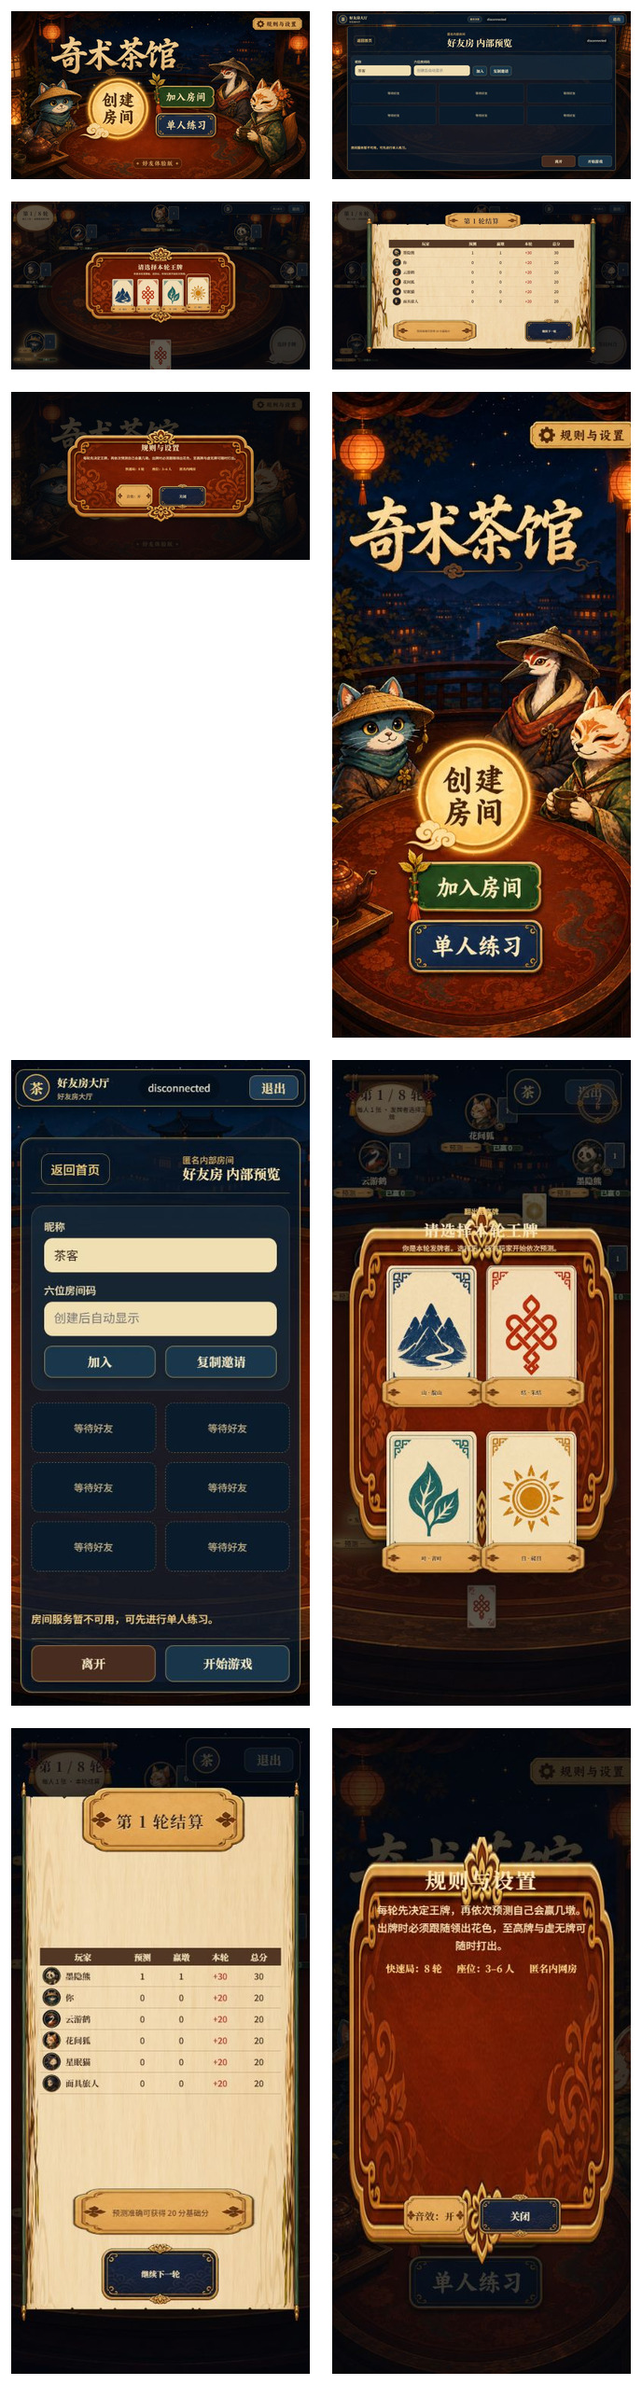
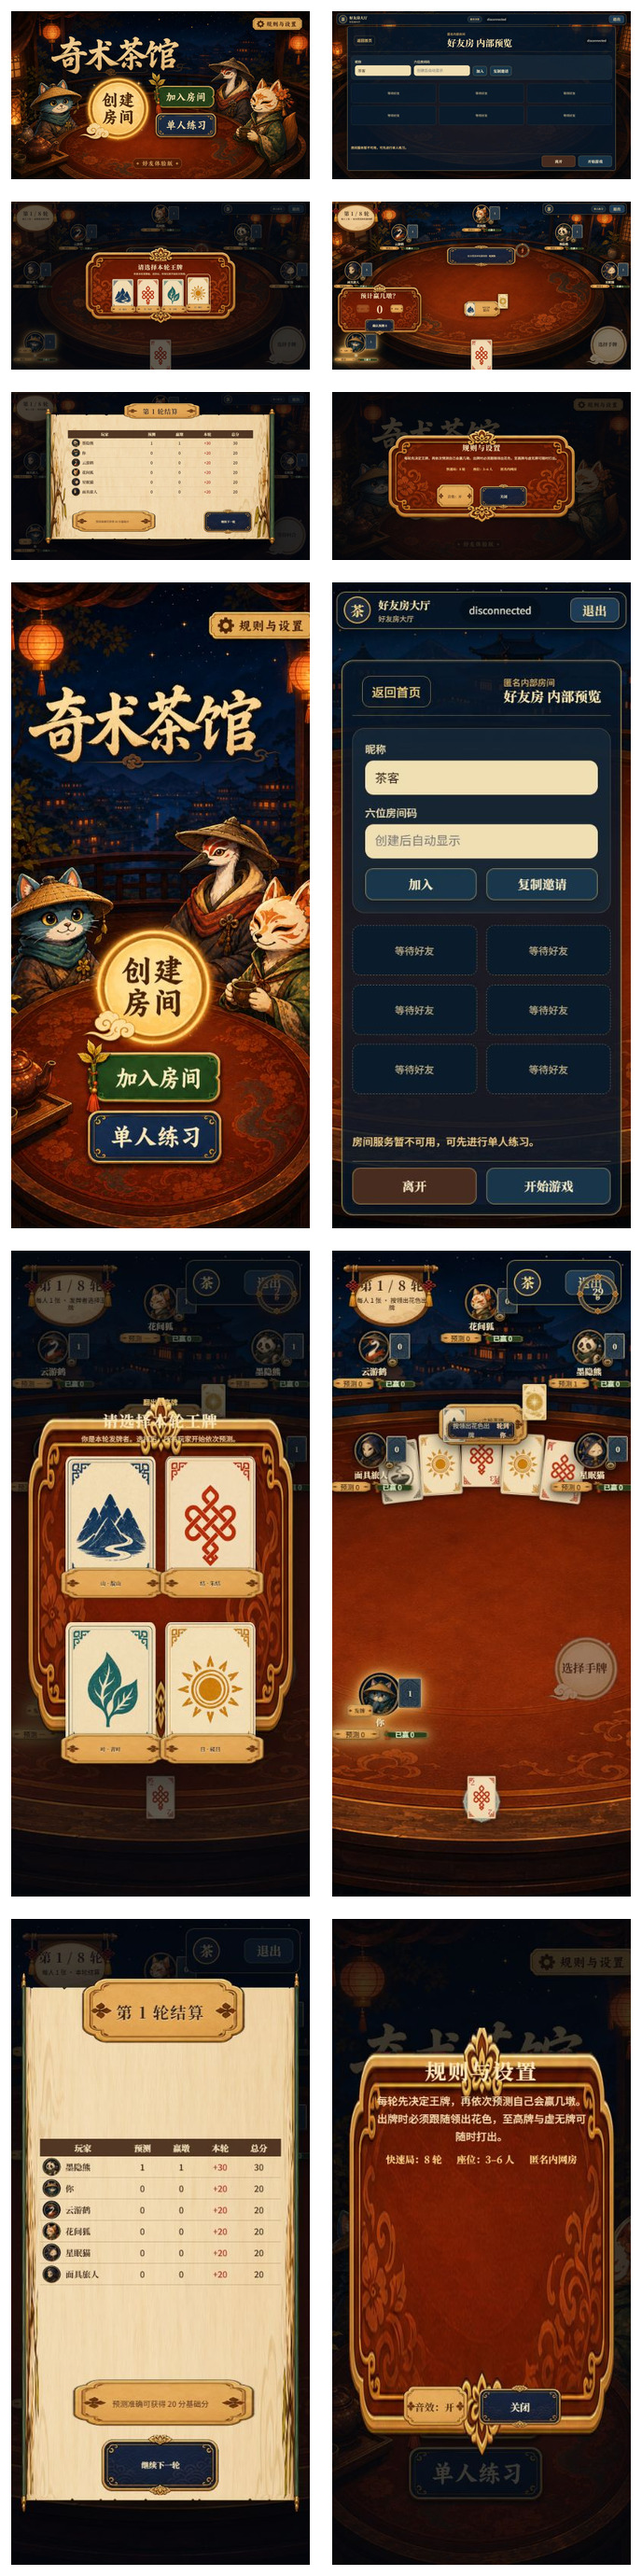
docs: add web patrol gameplay evidence

diff --git a/design-qa.md b/design-qa.md
@@ -186,7 +186,7 @@ final result: passed
 - Viewports: 1280×720 landscape and 390×844 portrait.
 - Live capture: clean Wizzard Vite instance at `http://localhost:5173/`; the earlier port-conflict page from another app was discarded and never used as evidence.
 - Accepted evidence contact sheet: `art/review/web-patrol-contact-sheet.jpg`.
-- Individual evidence: `art/review/web-patrol-{home,room,match,results,rules}-{landscape,portrait}.jpg`.
+- Individual evidence: `art/review/web-patrol-{home,room,match,play,results,rules}-{landscape,portrait}.jpg`.
 
 ### Findings and fixes
 
